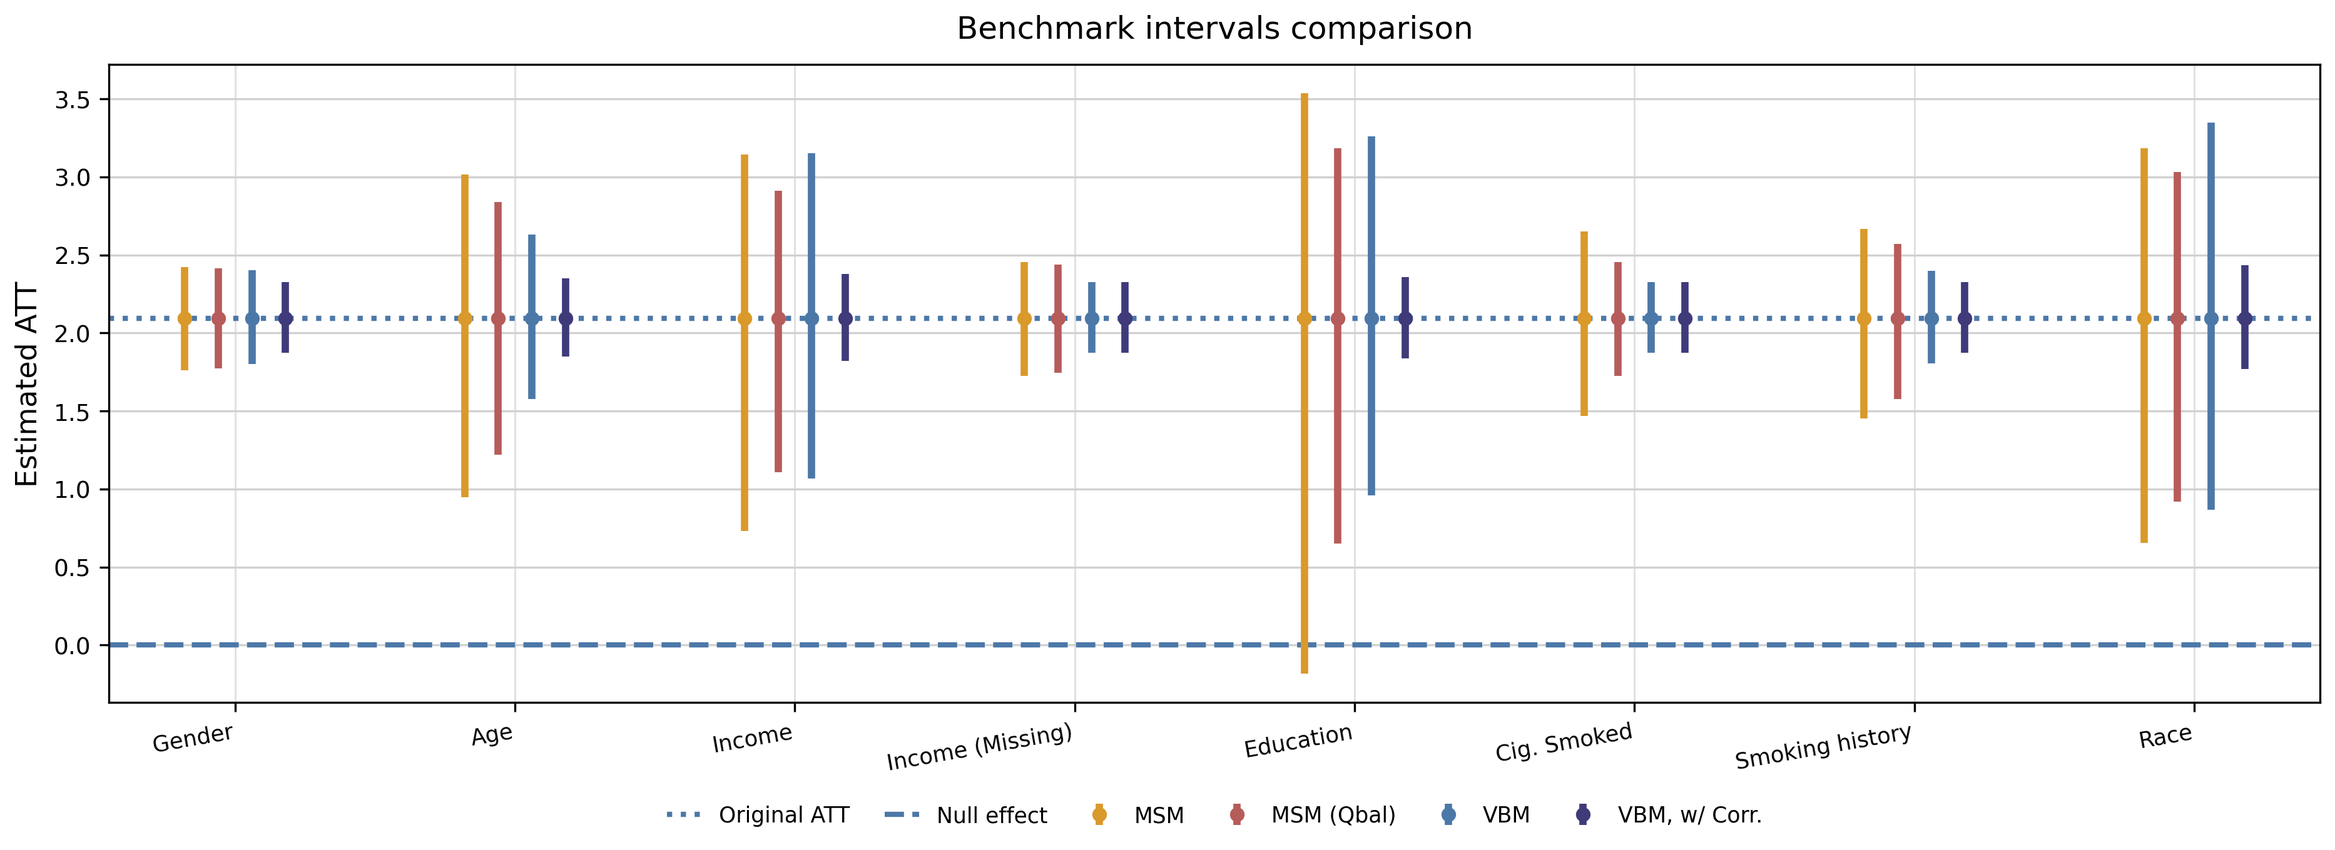
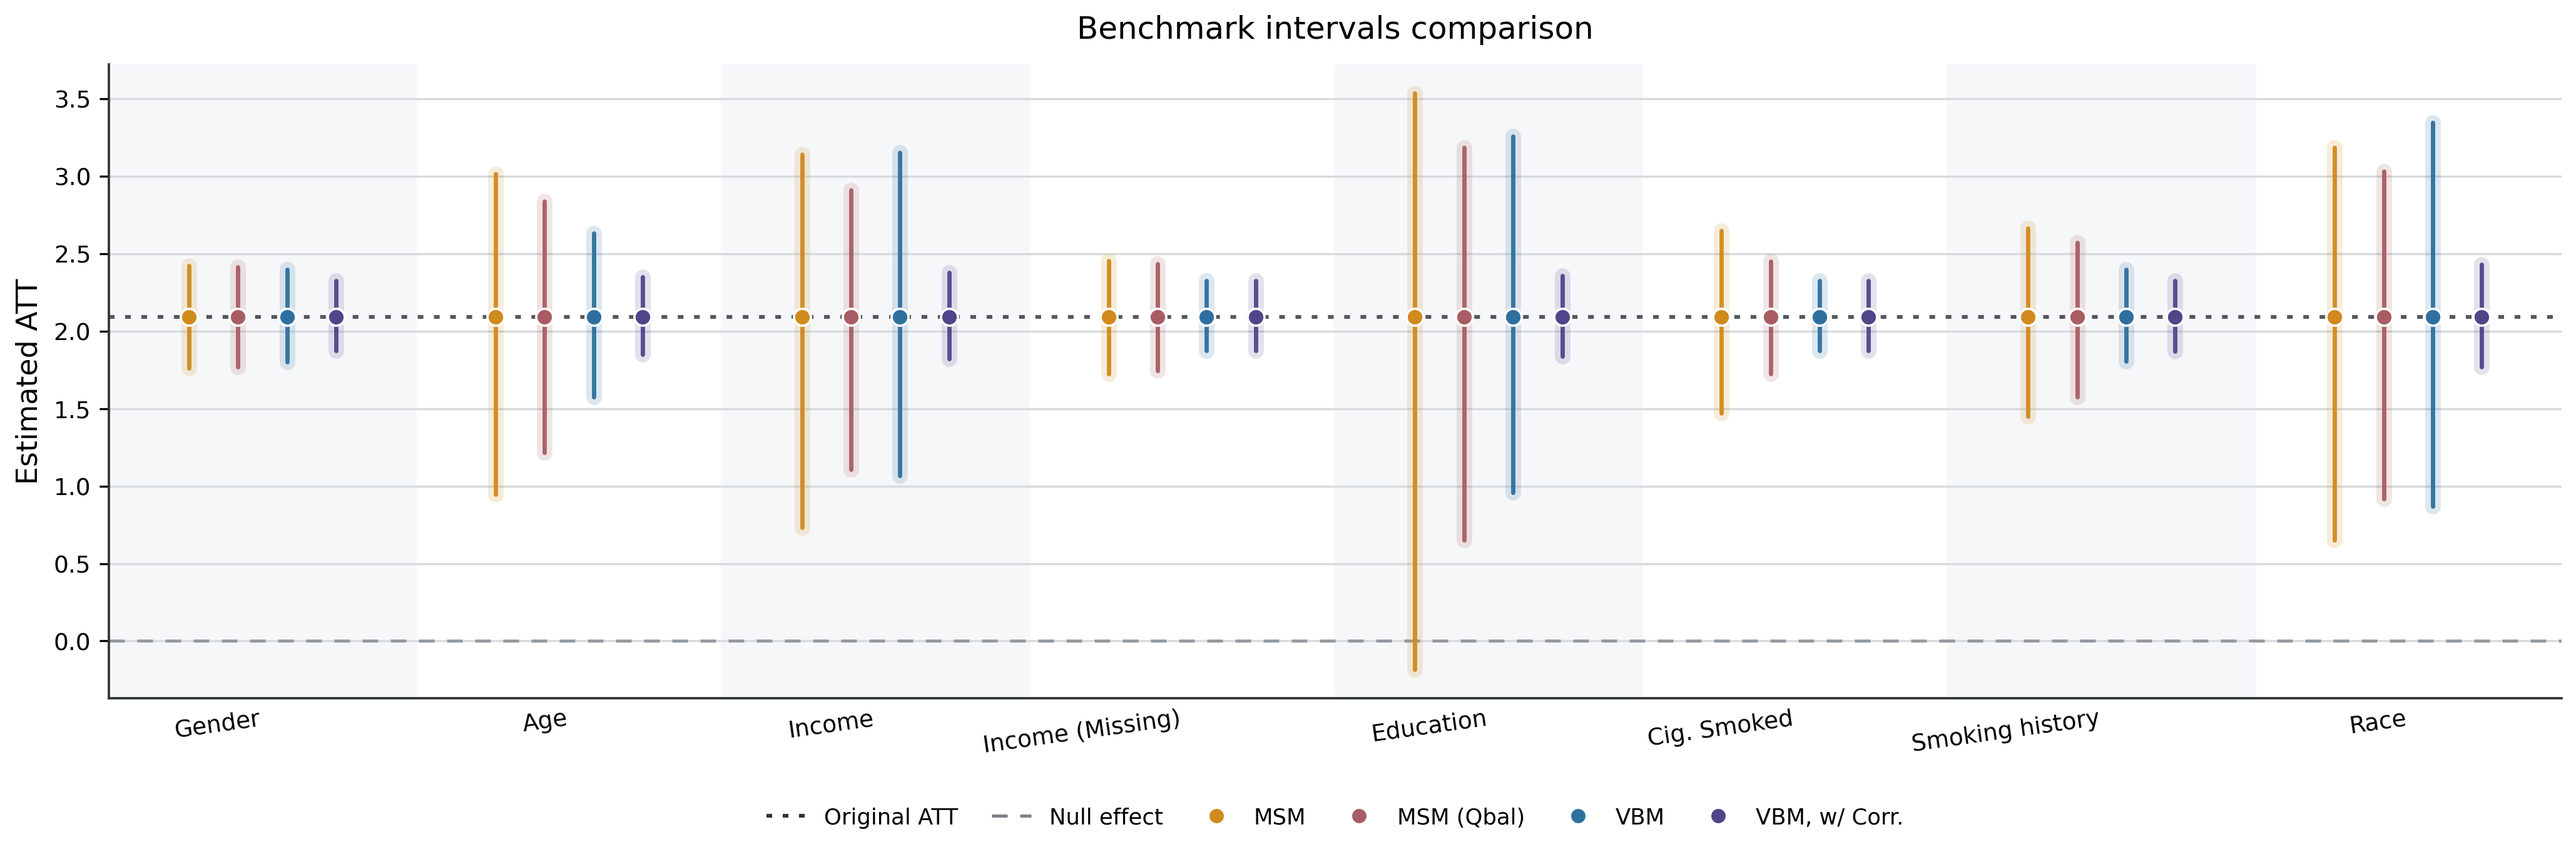
modify plot fig3

diff --git a/scripts/enhanced_plots.py b/scripts/enhanced_plots.py
@@ -28,6 +28,7 @@ from pathlib import Path
 import numpy as np
 import pandas as pd
 import matplotlib.pyplot as plt
+from matplotlib.lines import Line2D
 
 
 # Keep SVG text editable
@@ -557,25 +558,50 @@ def make_figure3(input_dir: Path, output_dir: Path) -> None:
     method_order = ["MSM", "MSM (Qbal)", "VBM", "VBM, w/ Corr."]
     methods = [m for m in method_order if m in df["method_label"].unique()]
 
-    # Paper-like compact grouping:
-    # smaller offsets keep the four method intervals close within each covariate.
+    # Keep the four method intervals readable within each covariate group.
     offsets = {
-        "MSM": -0.18,
-        "MSM (Qbal)": -0.06,
-        "VBM": 0.06,
-        "VBM, w/ Corr.": 0.18,
+        "MSM": -0.24,
+        "MSM (Qbal)": -0.08,
+        "VBM": 0.08,
+        "VBM, w/ Corr.": 0.24,
     }
 
-    # Muted, paper-like palette. The colors are intentionally not the default
-    # blue/orange/green/red because the default palette looks too bright.
+    # Muted, paper-like palette with enough contrast across methods.
     method_colors = {
-        "MSM": "#D9992B",          # muted ochre
-        "MSM (Qbal)": "#B65C5A",   # muted brick red
-        "VBM": "#4C78A8",          # muted blue
-        "VBM, w/ Corr.": "#3F3B7A",# muted indigo
+        "MSM": "#D08A1D",
+        "MSM (Qbal)": "#A95C63",
+        "VBM": "#2F6F9F",
+        "VBM, w/ Corr.": "#51458A",
     }
 
-    fig, ax = plt.subplots(figsize=(15.2, 5.4))
+    fig, ax = plt.subplots(figsize=(14.2, 5.2))
+
+    for i in range(len(order)):
+        if i % 2 == 0:
+            ax.axvspan(i - 0.5, i + 0.5, color="#F6F7F9", zorder=0)
+
+    tau = pd.to_numeric(df["tau_hat"], errors="coerce").dropna()
+
+    if not tau.empty:
+        ax.axhline(
+            float(tau.iloc[0]),
+            linewidth=1.45,
+            linestyle=(0, (1.5, 2.8)),
+            color="#2F3437",
+            alpha=0.82,
+            label="Original ATT",
+            zorder=1,
+        )
+
+    ax.axhline(
+        0,
+        linewidth=1.2,
+        linestyle=(0, (5.0, 4.0)),
+        color="#7A8288",
+        alpha=0.72,
+        label="Null effect",
+        zorder=1,
+    )
 
     for method in methods:
         sub = df.loc[df["method_label"].eq(method)].sort_values("x_base")
@@ -585,71 +611,57 @@ def make_figure3(input_dir: Path, output_dir: Path) -> None:
         lower = sub["lower"].to_numpy(dtype=float)
         upper = sub["upper"].to_numpy(dtype=float)
 
-        yerr = np.vstack(
-            [
-                y - lower,
-                upper - y,
-            ]
-        )
+        color = method_colors.get(method, "#4C78A8")
 
-        color = method_colors.get(method, None)
+        for xi, lo, hi in zip(x, lower, upper):
+            ax.plot(
+                [xi, xi],
+                [lo, hi],
+                color=color,
+                linewidth=6.0,
+                alpha=0.16,
+                solid_capstyle="round",
+                zorder=2,
+            )
+            ax.plot(
+                [xi, xi],
+                [lo, hi],
+                color=color,
+                linewidth=1.65,
+                alpha=0.95,
+                solid_capstyle="round",
+                zorder=3,
+            )
 
-        ax.errorbar(
+        ax.scatter(
             x,
             y,
-            yerr=yerr,
-            fmt="o",
+            s=42,
             color=color,
-            ecolor=color,
-            capsize=4.5,
-            capthick=2.2,
-            elinewidth=2.8,
-            linewidth=0,
-            markersize=5.6,
-            markeredgewidth=0,
+            edgecolor="white",
+            linewidth=0.9,
             label=method,
-            zorder=3,
+            zorder=4,
         )
 
-    tau = pd.to_numeric(df["tau_hat"], errors="coerce").dropna()
-
-    if not tau.empty:
-        ax.axhline(
-            float(tau.iloc[0]),
-            linewidth=2.0,
-            linestyle=":",
-            color="#4C78A8",
-            label="Original ATT",
-            zorder=1,
-        )
-
-    ax.axhline(
-        0,
-        linewidth=2.0,
-        linestyle="--",
-        color="#4C78A8",
-        label="Null effect",
-        zorder=1,
-    )
-
-    # Light gridlines mimic the original paper figure and improve readability.
-    ax.grid(True, axis="y", color="0.82", linewidth=0.8)
-    ax.grid(True, axis="x", color="0.88", linewidth=0.7)
+    # Light horizontal gridlines improve scale reading without fighting the intervals.
+    ax.grid(True, axis="y", color="#D6DADF", linewidth=0.8)
     ax.set_axisbelow(True)
 
     # Reduce side padding so the covariate groups occupy the plot area more evenly.
-    ax.set_xlim(-0.45, len(order) - 0.55)
+    ax.set_xlim(-0.5, len(order) - 0.5)
 
     ax.set_xticks(range(len(order)))
 
     ax.set_xticklabels(
         [label_map[v] for v in order],
-        rotation=10,
+        rotation=8,
         ha="right",
-        fontsize=8.5,
+        fontsize=9,
     )
 
     ax.tick_params(axis="y", labelsize=9)
+    ax.tick_params(axis="x", length=0)
 
     ax.set_ylabel("Estimated ATT", fontsize=11)
     ax.set_xlabel("")
@@ -660,17 +672,46 @@ def make_figure3(input_dir: Path, output_dir: Path) -> None:
         pad=10,
     )
 
-    ax.legend(
-        loc="upper center",
-        bbox_to_anchor=(0.5, -0.13),
-        ncol=6,
-        frameon=False,
-        fontsize=8.3,
-        handlelength=1.6,
-        columnspacing=1.6,
+    for spine in ["top", "right"]:
+        ax.spines[spine].set_visible(False)
+
+    ax.spines["left"].set_color("#2F3437")
+    ax.spines["bottom"].set_color("#2F3437")
+    ax.spines["left"].set_linewidth(0.9)
+    ax.spines["bottom"].set_linewidth(0.9)
+
+    handles = [
+        Line2D([0], [0], color="#2F3437", linewidth=1.45, linestyle=(0, (1.5, 2.8)), label="Original ATT"),
+        Line2D([0], [0], color="#7A8288", linewidth=1.2, linestyle=(0, (5.0, 4.0)), label="Null effect"),
+    ]
+
+    handles.extend(
+        Line2D(
+            [0],
+            [0],
+            marker="o",
+            linestyle="",
+            markerfacecolor=method_colors.get(method, "#4C78A8"),
+            markeredgecolor="white",
+            markeredgewidth=0.9,
+            markersize=6.4,
+            label=method,
+        )
+        for method in methods
     )
 
-    fig.subplots_adjust(bottom=0.25)
+    ax.legend(
+        handles=handles,
+        loc="upper center",
+        bbox_to_anchor=(0.5, -0.14),
+        ncol=6,
+        frameon=False,
+        fontsize=8.5,
+        handlelength=1.8,
+        columnspacing=1.5,
+    )
+
+    fig.subplots_adjust(bottom=0.26, top=0.91, left=0.07, right=0.99)
 
     save_figures(fig, output_dir, "figure3_benchmark_paper_style")
 
